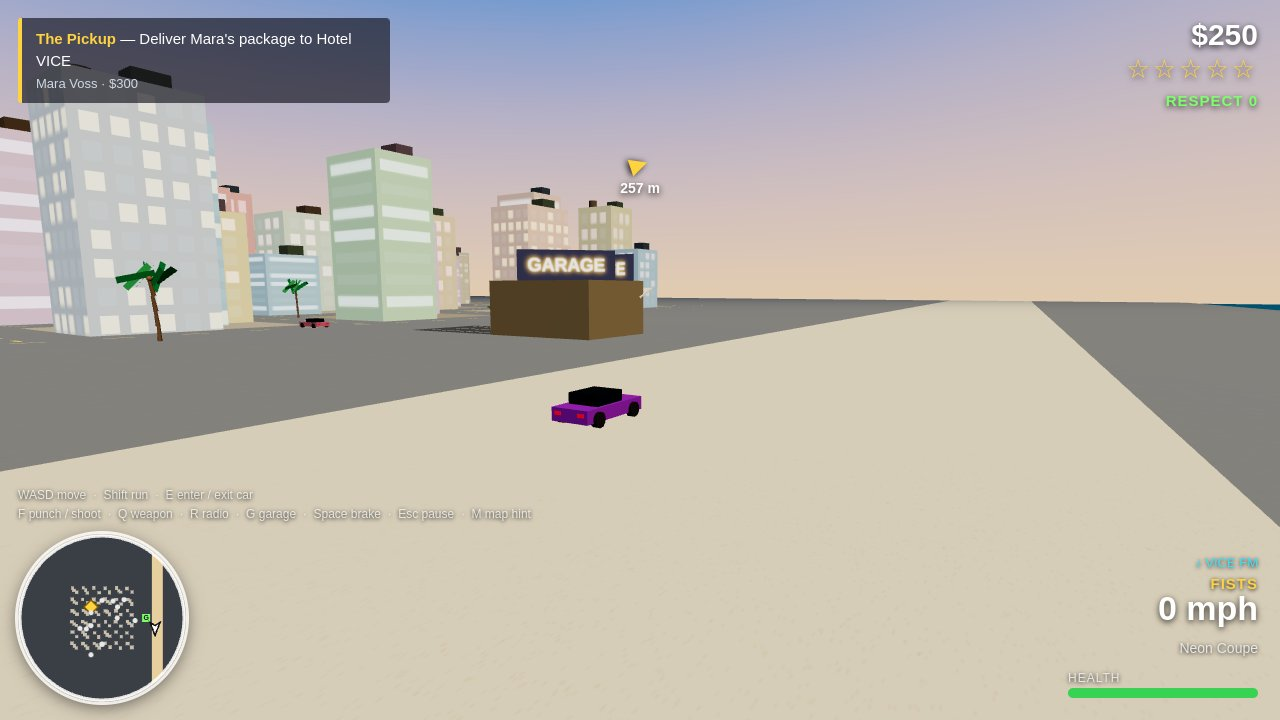
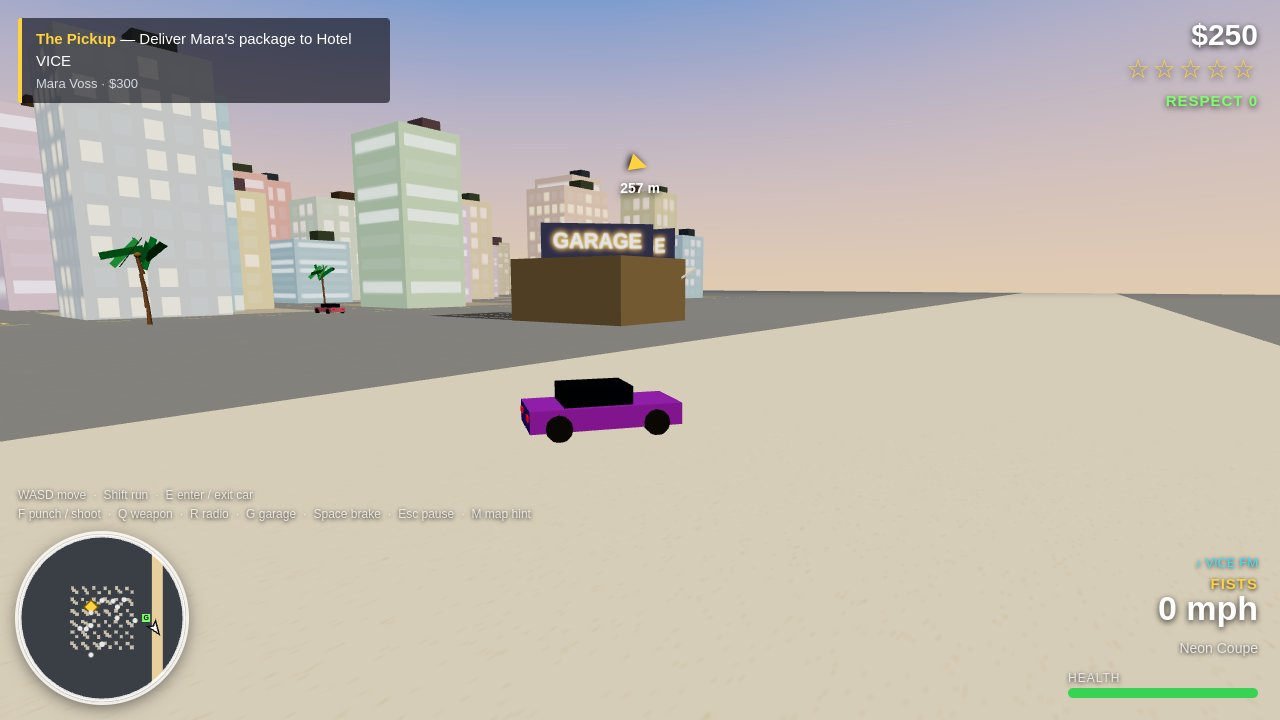
Vice Point stage 3: final screenshots, roadblock re-lay, playtest hardening, 197/197
- shots.js: drive shot reframed (closer/lower camera, side profile so the
  Neon reads at 1280x720); street shot pedestrian moved off the camera-Ray
  sightline so it stands fully visible beside Ray
- main.js: a roadblock that clears unbroken (dodged or shoved past) is
  re-laid after the 25 s throttle, capped at 3 per job; a smash still ends
  barricades for that job (roadblockSmashed flag)
- playtest.mjs: m7 ram now steers at the block, backs out if wedged, and
  fails fast if the run starts on foot; pistol/heli loops respect the
  0.28 s fire-rate cooldown (1200/1300 ms gaps) so SwiftShader timing
  cannot swallow shots; disable check accepts any disabled unit
- Screenshots retaken fresh from the green run; playtest 197/197, chain
  $250 -> $8,550, dossier byte-identical across two runs

Changed region(s): [[0.0, 0.0611, 1.0, 0.7333], [0.0938, 0.8556, 0.125, 0.8861], [0.0938, 0.0306, 0.125, 0.0611]]

diff --git a/game/src/main.js b/game/src/main.js
@@ -108,7 +108,10 @@ const state = {
   heistPhase: 0, // 0 = reach the bank, 1 = lose the heat
   roadblock: null,
   lastRoadblockAt: -999,
-  roadblocksUsed: 0, // one barricade per escape job: more would stall the getaway
+  roadblocksUsed: 0, // barricades laid this job (cap 3: a dodge gets re-laid,
+  // a smash ends them — one barricade per job let the signature moment
+  // silently vanish when the player was shoved past it)
+  roadblockSmashed: false, // once smashed, the VCPD stops barricading
 };
 
 // Restore a save, except in screenshot modes (those must be deterministic).
@@ -295,6 +298,7 @@ function startMission(i) {
   state.missionFailed = false;
   state.missionNote = '';
   state.roadblocksUsed = 0;
+  state.roadblockSmashed = false;
   if (mission.type === 'timed') {
     state.missionTimer = mission.timeLimit;
   } else if (mission.type === 'escape') {
@@ -605,7 +609,7 @@ function roadblockJobActive() {
 
 function maybeSpawnRoadblock() {
   if (!roadblockJobActive() || state.wanted < 3 || state.roadblock) return;
-  if (state.roadblocksUsed >= 1) return;
+  if (state.roadblocksUsed >= 3 || state.roadblockSmashed) return;
   if (state.time - state.lastRoadblockAt < 25) return;
   const ahead = 45;
   const ax = state.x + Math.sin(state.heading) * ahead;
@@ -629,6 +633,10 @@ function updateRoadblock(dt) {
   block.timer -= dt;
   const dist = Math.hypot(state.x - block.x, state.z - block.z);
   if (block.timer <= 0 || dist > 70) {
+    // Cleared unbroken — the player dodged it or was shoved past it. The
+    // VCPD re-lays the barricade after the 25 s throttle (roadblocksUsed
+    // caps the re-lays at 3 per job); a smash never re-lays.
+    if (!block.broken) state.lastRoadblockAt = state.time;
     removeRoadblock(scene, block);
     state.roadblock = null;
     return;
@@ -643,6 +651,7 @@ function updateRoadblock(dt) {
       if (Math.hypot(state.car.x - unit.x, state.car.z - unit.z) < 4.5
         && Math.abs(state.speed) > 8) {
         smashRoadblock(block);
+        state.roadblockSmashed = true;
         state.car.speed = Math.max(state.car.speed, 18);
         addRespect(RESPECT.roadblockSmash);
         addWanted(1, 'you smashed through a roadblock');

diff --git a/game/src/shots.js b/game/src/shots.js
@@ -156,15 +156,18 @@ export function stageShotMode(mode, G) {
     // A beach cruise: the Neon Coupe on the sand by the sea, palms and the
     // city skyline behind it, late sun over the water. Frozen (speed 0) so
     // the car stays in the static frame instead of rolling out of it.
+    // REVISION (stage 3): camera pulled closer and lower, and the Neon
+    // turned to a side profile — the old framing left the coupe a small
+    // speck over a huge empty sand foreground.
     const neon = G.cars.find((c) => c.def.id === 'neon');
-    neon.x = 202; neon.z = 40; neon.heading = Math.PI; neon.speed = 0;
+    neon.x = 202; neon.z = 40; neon.heading = Math.PI * 0.8; neon.speed = 0;
     neon.group.position.set(202, 0, 40);
-    neon.group.rotation.y = Math.PI;
+    neon.group.rotation.y = Math.PI * 0.8;
     G.setInCar(neon);
     state.wanted = 0;
     state.missionIndex = 0;
     state.shotFraming = {
-      cam: [218, 6, 62], look: [198, 1.5, 30],
+      cam: [213, 4.2, 53], look: [199, 1.2, 34],
     };
     return true;
   }
@@ -180,8 +183,12 @@ export function stageShotMode(mode, G) {
     if (ped) {
       // West of Ray on the open avenue, facing him — the old spot (x 3.2)
       // put the pedestrian behind the block's building wall from this camera.
-      ped.x = -2.8; ped.z = 8.0; ped.heading = 0.61; ped.down = false;
-      ped.group.position.set(-2.8, 0, 8.0);
+      // REVISION (stage 3b): (-3.0, 7.5) sat almost on the camera-Ray
+      // sightline, so the pedestrian hid behind Ray. (-4.0, 13.5) offsets
+      // perpendicular to that line (4.3 m from Ray, still < 6 m) so the
+      // pedestrian stands clearly beside him, fully visible.
+      ped.x = -4.0; ped.z = 13.5; ped.heading = 0.61; ped.down = false;
+      ped.group.position.set(-4.0, 0, 13.5);
       ped.group.rotation.set(0, ped.heading, 0);
     }
     state.shotFraming = {
